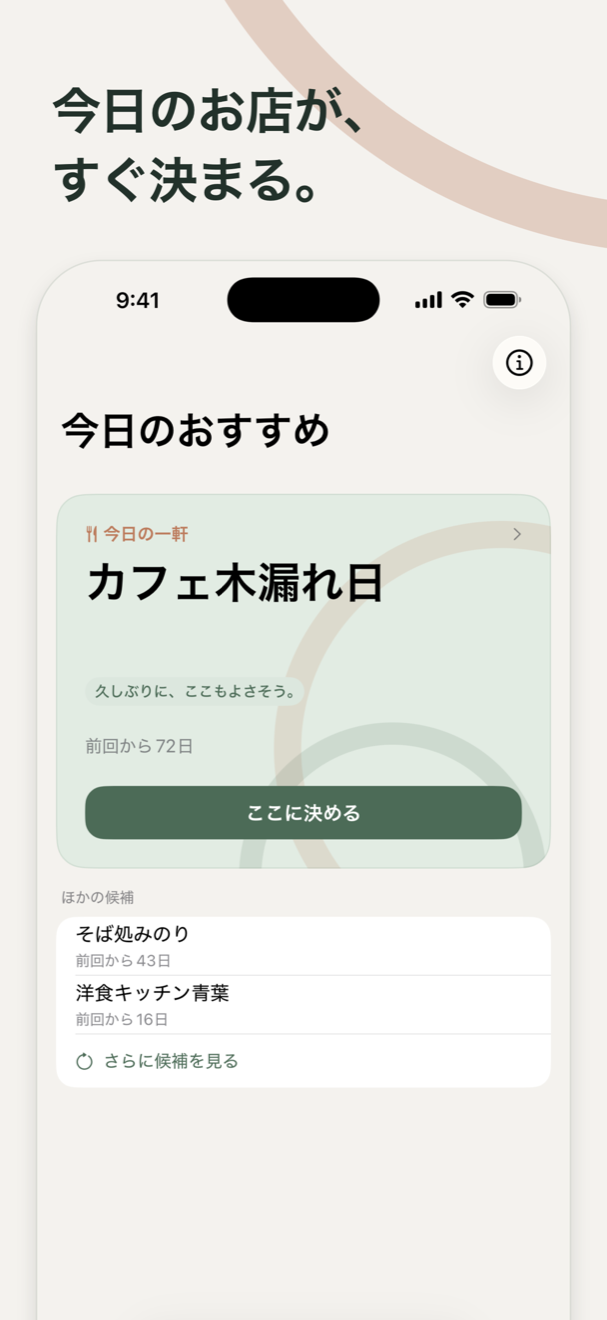
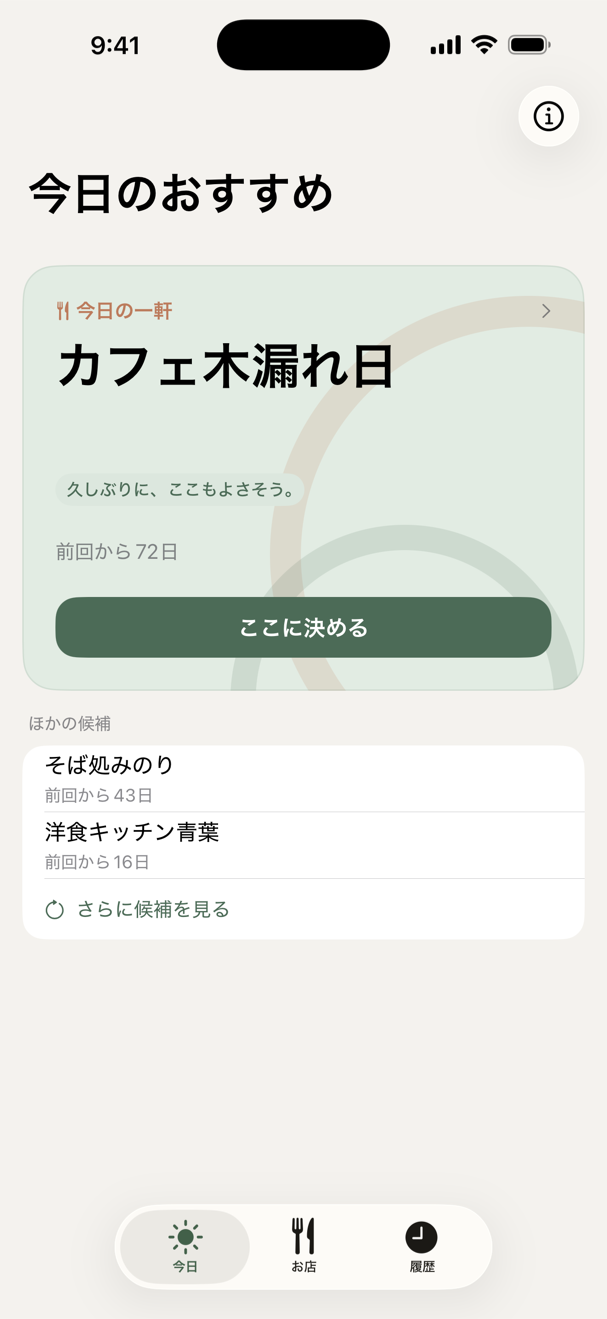
紹介ページの内容とデザインを改善（第2版）
内容:
- 推薦の説明を実際の判断材料（間隔・時間帯・距離）へ具体化
- アプリが実際に表示する「すすめる理由」の文言を掲載
- iOS 26.0以上・iPhone専用であることを明記
- 「行ってみたいお店」に触れ、質問を1つ追加

デザイン:
- スクリーンショットをApp Store用の合成画像から端末そのままの画面へ差し替え
  （ページ側の見出しと二重になっていたため）
- ヒーローと直後で重複していた画像をやめ、Core Valueを2枚に
- 全幅の背景帯を2箇所に入れ、同じ見た目のセクションが続くのを解消
- 画面外へ逃げていた円弧を上部を横切る位置へ
- OGPを横長1200x630に変更し twitter:card を summary_large_image へ

技術:
- span の中に h3 を入れていた不正なネストを div へ
- hero に fetchpriority、各画像に decoding を指定
- 画像実寸に合わせて width/height を 607x1319 へ

JSON-LDは operatingSystem を実態（iOS 26.0以上）に直しただけで、
評価情報は追加していない。

diff --git a/app.html b/app.html
@@ -12,15 +12,15 @@
 <meta property="og:title" content="タベポル｜今日のお店がすぐ決まるiPhoneアプリ">
 <meta property="og:description" content="いつものお店から「今日の一軒」を提案するiPhoneアプリ。アカウント不要、広告なし。">
 <meta property="og:url" content="https://isagiyoi.github.io/tabeporu-support/app.html">
-<meta property="og:image" content="https://isagiyoi.github.io/tabeporu-support/assets/icon/appicon-512.png">
-<meta property="og:image:width" content="512">
-<meta property="og:image:height" content="512">
-<meta property="og:image:alt" content="タベポルのアプリアイコン">
+<meta property="og:image" content="https://isagiyoi.github.io/tabeporu-support/assets/og/ogp-1200x630.png">
+<meta property="og:image:width" content="1200">
+<meta property="og:image:height" content="630">
+<meta property="og:image:alt" content="タベポル。いつものお店から「今日の一軒」を提案するiPhoneアプリ">
 <meta property="og:locale" content="ja_JP">
-<meta name="twitter:card" content="summary">
+<meta name="twitter:card" content="summary_large_image">
 <meta name="twitter:title" content="タベポル｜今日のお店がすぐ決まるiPhoneアプリ">
 <meta name="twitter:description" content="いつものお店から「今日の一軒」を提案するiPhoneアプリ。アカウント不要、広告なし。">
-<meta name="twitter:image" content="https://isagiyoi.github.io/tabeporu-support/assets/icon/appicon-512.png">
+<meta name="twitter:image" content="https://isagiyoi.github.io/tabeporu-support/assets/og/ogp-1200x630.png">
 
 <link rel="icon" href="assets/icon/appicon-32.png" sizes="32x32">
 <link rel="apple-touch-icon" href="assets/icon/appicon-180.png">
@@ -64,10 +64,15 @@ p{margin:0 0 1rem}
 /* 円弧（Loop Motif）。装飾なのでスクリーンリーダーからは隠す。 */
 .arcs{position:absolute;inset:0;overflow:hidden;pointer-events:none;z-index:0}
 .arcs span{position:absolute;border-radius:50%;border:56px solid transparent;display:block}
-.arc-warm{width:900px;height:900px;top:-560px;left:52%;border-top-color:var(--warm);
-  border-right-color:var(--warm);opacity:.30;transform:rotate(18deg)}
-.arc-green{width:1040px;height:1040px;top:-660px;left:-18%;border-bottom-color:var(--accent);
-  border-right-color:var(--accent);opacity:.24;transform:rotate(-8deg)}
+.arc-warm{width:900px;height:900px;top:-700px;left:52%;border-bottom-color:var(--warm);
+  border-right-color:var(--warm);opacity:.32;transform:rotate(14deg)}
+.arc-green{width:1000px;height:1000px;top:-830px;left:-24%;border-bottom-color:var(--accent);
+  border-right-color:var(--accent);opacity:.25;transform:rotate(-6deg)}
+/* 狭い画面では円弧が見出しに掛かるため、さらに上へ逃がす。 */
+@media(max-width:759px){
+  .arc-warm{width:620px;height:620px;top:-500px;left:34%}
+  .arc-green{width:680px;height:680px;top:-560px;left:-42%}
+}
 
 /* Hero */
 .hero{position:relative;padding:72px 0 64px}
@@ -105,6 +110,17 @@ ol.steps li::before{content:counter(step);color:var(--accent);font-weight:700;fo
 .calm li{padding-left:1.5em;position:relative}
 .calm li::before{content:"—";position:absolute;left:0;color:var(--warm);font-weight:700}
 
+/* 同じ見た目のセクションが続かないよう、全幅の背景帯を挟む。 */
+.band{background:var(--wash);border-bottom:0;
+  box-shadow:0 0 0 100vmax var(--wash);clip-path:inset(0 -100vmax)}
+/* 短いつなぎのセクションは少し詰める。 */
+.tight{padding-top:52px;padding-bottom:52px}
+
+/* アプリが実際に表示する「すすめる理由」の文言。 */
+.reasons{list-style:none;padding:0;margin:1.25rem 0 0;display:grid;gap:10px}
+.reasons li{background:var(--card);border:1px solid var(--line);border-radius:14px;
+  padding:12px 16px}
+
 /* タベポルについて（質問と回答・基本情報） */
 #about h3{margin:1.75rem 0 .4rem;font-size:1.1rem}
 #about h3:first-of-type{margin-top:1rem}
@@ -122,8 +138,10 @@ footer{border-top:1px solid var(--line);padding:32px 0 56px;color:var(--muted);f
 @media(min-width:760px){
   .hero-inner{grid-template-columns:1.05fr .95fr;gap:56px}
   .hero-shot{justify-self:end;width:min(330px,42vw)}
-  .shots{grid-template-columns:repeat(3,1fr);gap:20px}
-  .shots img{width:100%;max-width:300px}
+  .shots{grid-template-columns:repeat(2,1fr);gap:28px;max-width:740px;margin-inline:auto}
+  .shots img{width:100%;max-width:320px}
+  .reasons{grid-template-columns:repeat(3,1fr)}
+  .tight{padding-top:64px;padding-bottom:64px}
   .split{grid-template-columns:1fr 1fr;gap:48px}
   .split.reverse .split-text{order:2}
   section{padding:88px 0}
@@ -139,20 +157,21 @@ footer{border-top:1px solid var(--line);padding:32px 0 56px;color:var(--muted);f
     <div class="hero-inner">
       <div>
         <img class="appicon" src="assets/icon/appicon-180.png" width="84" height="84"
-             alt="タベポルのアプリアイコン">
+             decoding="async" alt="タベポルのアプリアイコン">
         <p class="eyebrow">タベポル</p>
         <h1>今日のお店が、<br>すぐ決まる。</h1>
         <p class="lead">いつものお店から「今日の一軒」を提案するiPhoneアプリです。</p>
         <p><a class="cta" href="https://apps.apple.com/jp/app/id6807250919">App Storeで見る</a></p>
-        <p class="muted">iPhone対応・無料・フード／ドリンク</p>
+        <p class="muted">iPhone専用・iOS&nbsp;26.0以上・無料</p>
       </div>
-      <img class="hero-shot" src="assets/screenshots/01_today_decides.png" width="607" height="1320"
-           alt="タベポルのTodayタブ。「今日の一軒」として登録済みのお店と、その場で決められる「ここに決める」ボタンが表示されている画面">
+      <img class="hero-shot" src="assets/screenshots/01_today_decides.png" width="607" height="1319"
+           fetchpriority="high" decoding="async"
+           alt="タベポルの今日の画面。「今日の一軒」として提案されたお店と、すすめる理由、その場で決められる「ここに決める」ボタンが表示されている">
     </div>
   </header>
 
   <!-- Problem -->
-  <section id="problem">
+  <section id="problem" class="tight">
     <h2>今日どこで食べる？</h2>
     <p class="lead">新しいお店を探したいわけじゃない。<br>
       でも、いつものお店の中から今日はどこに行くか決まらない。</p>
@@ -162,13 +181,20 @@ footer{border-top:1px solid var(--line);padding:32px 0 56px;color:var(--muted);f
   <!-- Core Value -->
   <section id="core">
     <h2>いつものお店から、<br>今日の一軒。</h2>
-    <p>よく行くお店を登録すると、訪問の記録などをもとに「今日の一軒」を提案します。</p>
+    <p>よく行くお店を登録すると、前に行ってからの間隔や、いまの時間帯をもとに「今日の一軒」を提案します。
+      位置情報を許可していれば、現在地からの近さも考慮します。</p>
+    <p>提案には、そのお店をすすめる理由がひとこと添えられます。</p>
+    <ul class="reasons">
+      <li>「そろそろ、また行きたくなる頃。」</li>
+      <li>「久しぶりに、ここもよさそう。」</li>
+      <li>「まだ記憶に新しいお店。」</li>
+    </ul>
     <div class="shots">
-      <img src="assets/screenshots/01_today_decides.png" width="607" height="1320" loading="lazy"
-           alt="今日のおすすめ画面。おすすめのお店の名前と、前回からの経過日数が表示されている">
-      <img src="assets/screenshots/02_from_your_favorites.png" width="607" height="1320" loading="lazy"
+      <img src="assets/screenshots/02_from_your_favorites.png" width="607" height="1319" loading="lazy"
+           decoding="async"
            alt="お店一覧画面。登録したお店が最終訪問日と訪問回数とともに並んでいる">
-      <img src="assets/screenshots/03_decide_and_record.png" width="607" height="1320" loading="lazy"
+      <img src="assets/screenshots/03_decide_and_record.png" width="607" height="1319" loading="lazy"
+           decoding="async"
            alt="「ここに決める」を押したあとの画面。今日の一軒が決まり、訪問が記録されたことが表示されている">
     </div>
   </section>
@@ -177,12 +203,12 @@ footer{border-top:1px solid var(--line);padding:32px 0 56px;color:var(--muted);f
   <section id="how">
     <h2>使い方はシンプル。</h2>
     <ol class="steps">
-      <li><span><h3>いつものお店を登録</h3>
-        <span class="muted">よく行くお店をまとめて追加します。</span></span></li>
-      <li><span><h3>今日のおすすめを見る</h3>
-        <span class="muted">登録したお店から「今日の一軒」が表示されます。</span></span></li>
-      <li><span><h3>「ここに決める」</h3>
-        <span class="muted">タップするだけで、その日のお店が決まります。</span></span></li>
+      <li><div><h3>いつものお店を登録</h3>
+        <span class="muted">よく行くお店をまとめて追加します。</span></div></li>
+      <li><div><h3>今日のおすすめを見る</h3>
+        <span class="muted">登録したお店から「今日の一軒」が表示されます。</span></div></li>
+      <li><div><h3>「ここに決める」</h3>
+        <span class="muted">タップするだけで、その日のお店が決まります。</span></div></li>
     </ol>
     <div class="note">
       <p style="margin:0">「ここに決める」で訪問も記録され、次のおすすめに反映されます。<br>
@@ -195,18 +221,19 @@ footer{border-top:1px solid var(--line);padding:32px 0 56px;color:var(--muted);f
     <div class="split-text">
       <h2>いつものお店を、<br>まとめて登録。</h2>
       <p>駅名や地名でエリアを探し、表示された一覧から登録したいお店をまとめて追加できます。</p>
+      <p>行ったことのあるお店だけでなく、「行ってみたいお店」も候補に加えられます。</p>
     </div>
-    <img src="assets/screenshots/04_add_places.png" width="607" height="1320" loading="lazy"
+    <img src="assets/screenshots/04_add_places.png" width="607" height="1319" loading="lazy" decoding="async"
          alt="お店を追加する画面。エリアの一覧から複数のお店にチェックを入れ、まとめて追加しようとしている">
   </section>
 
   <!-- History -->
-  <section id="history" class="split reverse">
+  <section id="history" class="split reverse band">
     <div class="split-text">
       <h2>行ったお店を、<br>カレンダーで振り返る。</h2>
       <p>いつ、どのお店に行ったかを月ごとに振り返れます。</p>
     </div>
-    <img src="assets/screenshots/05_history.png" width="607" height="1320" loading="lazy"
+    <img src="assets/screenshots/05_history.png" width="607" height="1319" loading="lazy" decoding="async"
          alt="履歴画面。カレンダーに訪問した日の印が付き、選んだ日に行ったお店が表示されている">
   </section>
 
@@ -222,7 +249,7 @@ footer{border-top:1px solid var(--line);padding:32px 0 56px;color:var(--muted);f
       <p>登録したお店と訪問履歴は、端末に保存されます。</p>
       <p class="muted"><a href="privacy.html">プライバシーポリシーを見る</a></p>
     </div>
-    <img src="assets/screenshots/06_privacy.png" width="607" height="1320" loading="lazy"
+    <img src="assets/screenshots/06_privacy.png" width="607" height="1319" loading="lazy" decoding="async"
          alt="タベポルについての画面。アプリ名、バージョン、プライバシーポリシーやサポートへのリンクが並んでいる">
   </section>
 
@@ -235,7 +262,7 @@ footer{border-top:1px solid var(--line);padding:32px 0 56px;color:var(--muted);f
   </section>
 
   <!-- About / よくある質問 -->
-  <section id="about">
+  <section id="about" class="band">
     <h2>タベポルについて</h2>
 
     <h3>タベポルはどんなアプリですか？</h3>
@@ -249,6 +276,9 @@ footer{border-top:1px solid var(--line);padding:32px 0 56px;color:var(--muted);f
     <p>タベポルは、口コミやランキングから新しいお店を探すことを中心にしたアプリではありません。
       自分が登録したお店をもとに、今日行く一軒を決めるためのアプリです。</p>
 
+    <h3>行ったことのないお店も登録できますか？</h3>
+    <p>はい。「行ってみたいお店」として候補に追加できます。まだ訪問していないお店も、今日の候補に入ります。</p>
+
     <h3>位置情報を使わなくても利用できますか？</h3>
     <p>はい。位置情報は任意です。位置情報を許可すると、登録したお店の中から現在地に近いお店を提案したり、
       近くのお店を追加したりできます。</p>
@@ -259,6 +289,7 @@ footer{border-top:1px solid var(--line);padding:32px 0 56px;color:var(--muted);f
     <dl class="facts">
       <div><dt>名称</dt><dd>タベポル</dd></div>
       <div><dt>種類</dt><dd>iPhoneアプリ</dd></div>
+      <div><dt>必要環境</dt><dd>iOS 26.0以上（iPhone専用）</dd></div>
       <div><dt>用途</dt><dd>いつものお店から今日行く一軒を決める</dd></div>
       <div><dt>価格</dt><dd>無料</dd></div>
       <div><dt>カテゴリー</dt><dd>フード／ドリンク</dd></div>
@@ -299,7 +330,7 @@ footer{border-top:1px solid var(--line);padding:32px 0 56px;color:var(--muted);f
   "alternateName": "Tabeporu",
   "applicationCategory": "LifestyleApplication",
   "applicationSubCategory": "フード／ドリンク",
-  "operatingSystem": "iOS",
+  "operatingSystem": "iOS 26.0以上",
   "inLanguage": "ja",
   "description": "タベポルは、いつものお店から「今日の一軒」を提案するiPhoneアプリです。新しい飲食店を探すのではなく、すでに知っているお店の中から今日行く一軒を決めることに特化しています。アカウント不要、広告なし、データ収集なし。",
   "url": "https://isagiyoi.github.io/tabeporu-support/app.html",

diff --git a/tools/make-ogp.swift b/tools/make-ogp.swift
@@ -1,0 +1,108 @@
+// タベポル 紹介ページのOGP画像（1200x630）を生成する。
+// 素材はリポジトリ内の実アイコンと実スクリーンショットのみを使う。
+//   swift tools/make-ogp.swift
+import AppKit
+import CoreGraphics
+import ImageIO
+import UniformTypeIdentifiers
+
+let W = 1200, H = 630
+
+// app.html と同じセマンティックカラー（ライト側）
+func rgb(_ hex: UInt32, _ a: CGFloat = 1) -> CGColor {
+    CGColor(red: CGFloat((hex >> 16) & 0xff) / 255,
+            green: CGFloat((hex >> 8) & 0xff) / 255,
+            blue: CGFloat(hex & 0xff) / 255, alpha: a)
+}
+let bg = rgb(0xF4F2EE), text = rgb(0x24352C), warm = rgb(0xBC7B5C), accent = rgb(0x4C6B57), muted = rgb(0x5D6A63)
+
+let repoRoot = URL(fileURLWithPath: CommandLine.arguments.count > 1 ? CommandLine.arguments[1] : ".")
+func loadImage(_ rel: String) -> CGImage {
+    let url = repoRoot.appendingPathComponent(rel)
+    guard let src = CGImageSourceCreateWithURL(url as CFURL, nil),
+          let img = CGImageSourceCreateImageAtIndex(src, 0, nil) else {
+        fatalError("読み込めません: \(url.path)")
+    }
+    return img
+}
+
+guard let ctx = CGContext(data: nil, width: W, height: H, bitsPerComponent: 8, bytesPerRow: 0,
+                          space: CGColorSpaceCreateDeviceRGB(),
+                          bitmapInfo: CGImageAlphaInfo.noneSkipLast.rawValue) else {
+    fatalError("CGContextを作れません")
+}
+// 座標は左下原点。上端からの位置で書けるようにする。
+func fromTop(_ top: CGFloat, height h: CGFloat) -> CGFloat { CGFloat(H) - top - h }
+
+ctx.setFillColor(bg)
+ctx.fill(CGRect(x: 0, y: 0, width: W, height: H))
+
+// Loop Motif の円弧（app.html のヒーローと同じ考え方で上部に流す）
+func arc(diameter d: CGFloat, left: CGFloat, top: CGFloat, color: CGColor, width lw: CGFloat) {
+    ctx.saveGState()
+    ctx.setStrokeColor(color)
+    ctx.setLineWidth(lw)
+    ctx.strokeEllipse(in: CGRect(x: left, y: fromTop(top, height: d), width: d, height: d))
+    ctx.restoreGState()
+}
+// 見出しの上を横切らないよう、円弧は上端の帯だけを通す。
+arc(diameter: 900, left: -330, top: -600, color: rgb(0x4C6B57, 0.24), width: 46)
+arc(diameter: 820, left: 520, top: -520, color: rgb(0xBC7B5C, 0.30), width: 46)
+
+let gctx = NSGraphicsContext(cgContext: ctx, flipped: false)
+NSGraphicsContext.saveGraphicsState()
+NSGraphicsContext.current = gctx
+
+func draw(_ s: String, x: CGFloat, top: CGFloat, size: CGFloat, weight: NSFont.Weight, color: CGColor, tracking: CGFloat = 0) -> CGFloat {
+    let font = NSFont.systemFont(ofSize: size, weight: weight)
+    let attrs: [NSAttributedString.Key: Any] = [
+        .font: font,
+        .foregroundColor: NSColor(cgColor: color)!,
+        .kern: tracking,
+    ]
+    let str = NSAttributedString(string: s, attributes: attrs)
+    let h = ceil(font.ascender - font.descender)
+    str.draw(at: NSPoint(x: x, y: fromTop(top, height: h) - font.descender * 0.5))
+    return h
+}
+
+// 右側：Todayのスクリーンショット（下端はキャンバスで切れる＝サイトのヒーローと同じ見せ方）
+let shot = loadImage("assets/screenshots/01_today_decides.png")
+let shotW: CGFloat = 372
+let shotH = shotW * CGFloat(shot.height) / CGFloat(shot.width)
+let shotRect = CGRect(x: 762, y: fromTop(74, height: shotH), width: shotW, height: shotH)
+ctx.saveGState()
+ctx.setShadow(offset: CGSize(width: 0, height: -14), blur: 40, color: rgb(0x000000, 0.16))
+let clip = CGPath(roundedRect: shotRect, cornerWidth: 30, cornerHeight: 30, transform: nil)
+ctx.addPath(clip)
+ctx.clip()
+ctx.draw(shot, in: shotRect)
+ctx.restoreGState()
+
+// 左側：アイコン → ブランド名 → 見出し → 補足
+let icon = loadImage("assets/icon/appicon-512.png")
+let iconSide: CGFloat = 92
+let iconRect = CGRect(x: 76, y: fromTop(92, height: iconSide), width: iconSide, height: iconSide)
+ctx.saveGState()
+ctx.setShadow(offset: CGSize(width: 0, height: -5), blur: 16, color: rgb(0x000000, 0.12))
+ctx.addPath(CGPath(roundedRect: iconRect, cornerWidth: 21, cornerHeight: 21, transform: nil))
+ctx.clip()
+ctx.draw(icon, in: iconRect)
+ctx.restoreGState()
+
+_ = draw("タベポル", x: 78, top: 210, size: 27, weight: .bold, color: warm, tracking: 1.2)
+_ = draw("今日のお店が、", x: 76, top: 258, size: 74, weight: .bold, color: text, tracking: -1)
+_ = draw("すぐ決まる。", x: 76, top: 352, size: 74, weight: .bold, color: text, tracking: -1)
+_ = draw("いつものお店から「今日の一軒」を提案するiPhoneアプリ。", x: 78, top: 468, size: 25, weight: .regular, color: muted)
+_ = draw("アカウント不要・広告なし・無料", x: 78, top: 516, size: 25, weight: .semibold, color: accent)
+
+NSGraphicsContext.restoreGraphicsState()
+
+guard let out = ctx.makeImage() else { fatalError("画像化に失敗") }
+let dest = repoRoot.appendingPathComponent("assets/og/ogp-1200x630.png")
+guard let sink = CGImageDestinationCreateWithURL(dest as CFURL, UTType.png.identifier as CFString, 1, nil) else {
+    fatalError("出力先を作れません")
+}
+CGImageDestinationAddImage(sink, out, nil)
+guard CGImageDestinationFinalize(sink) else { fatalError("書き出しに失敗") }
+print("生成: \(dest.path)  \(out.width)x\(out.height)")
